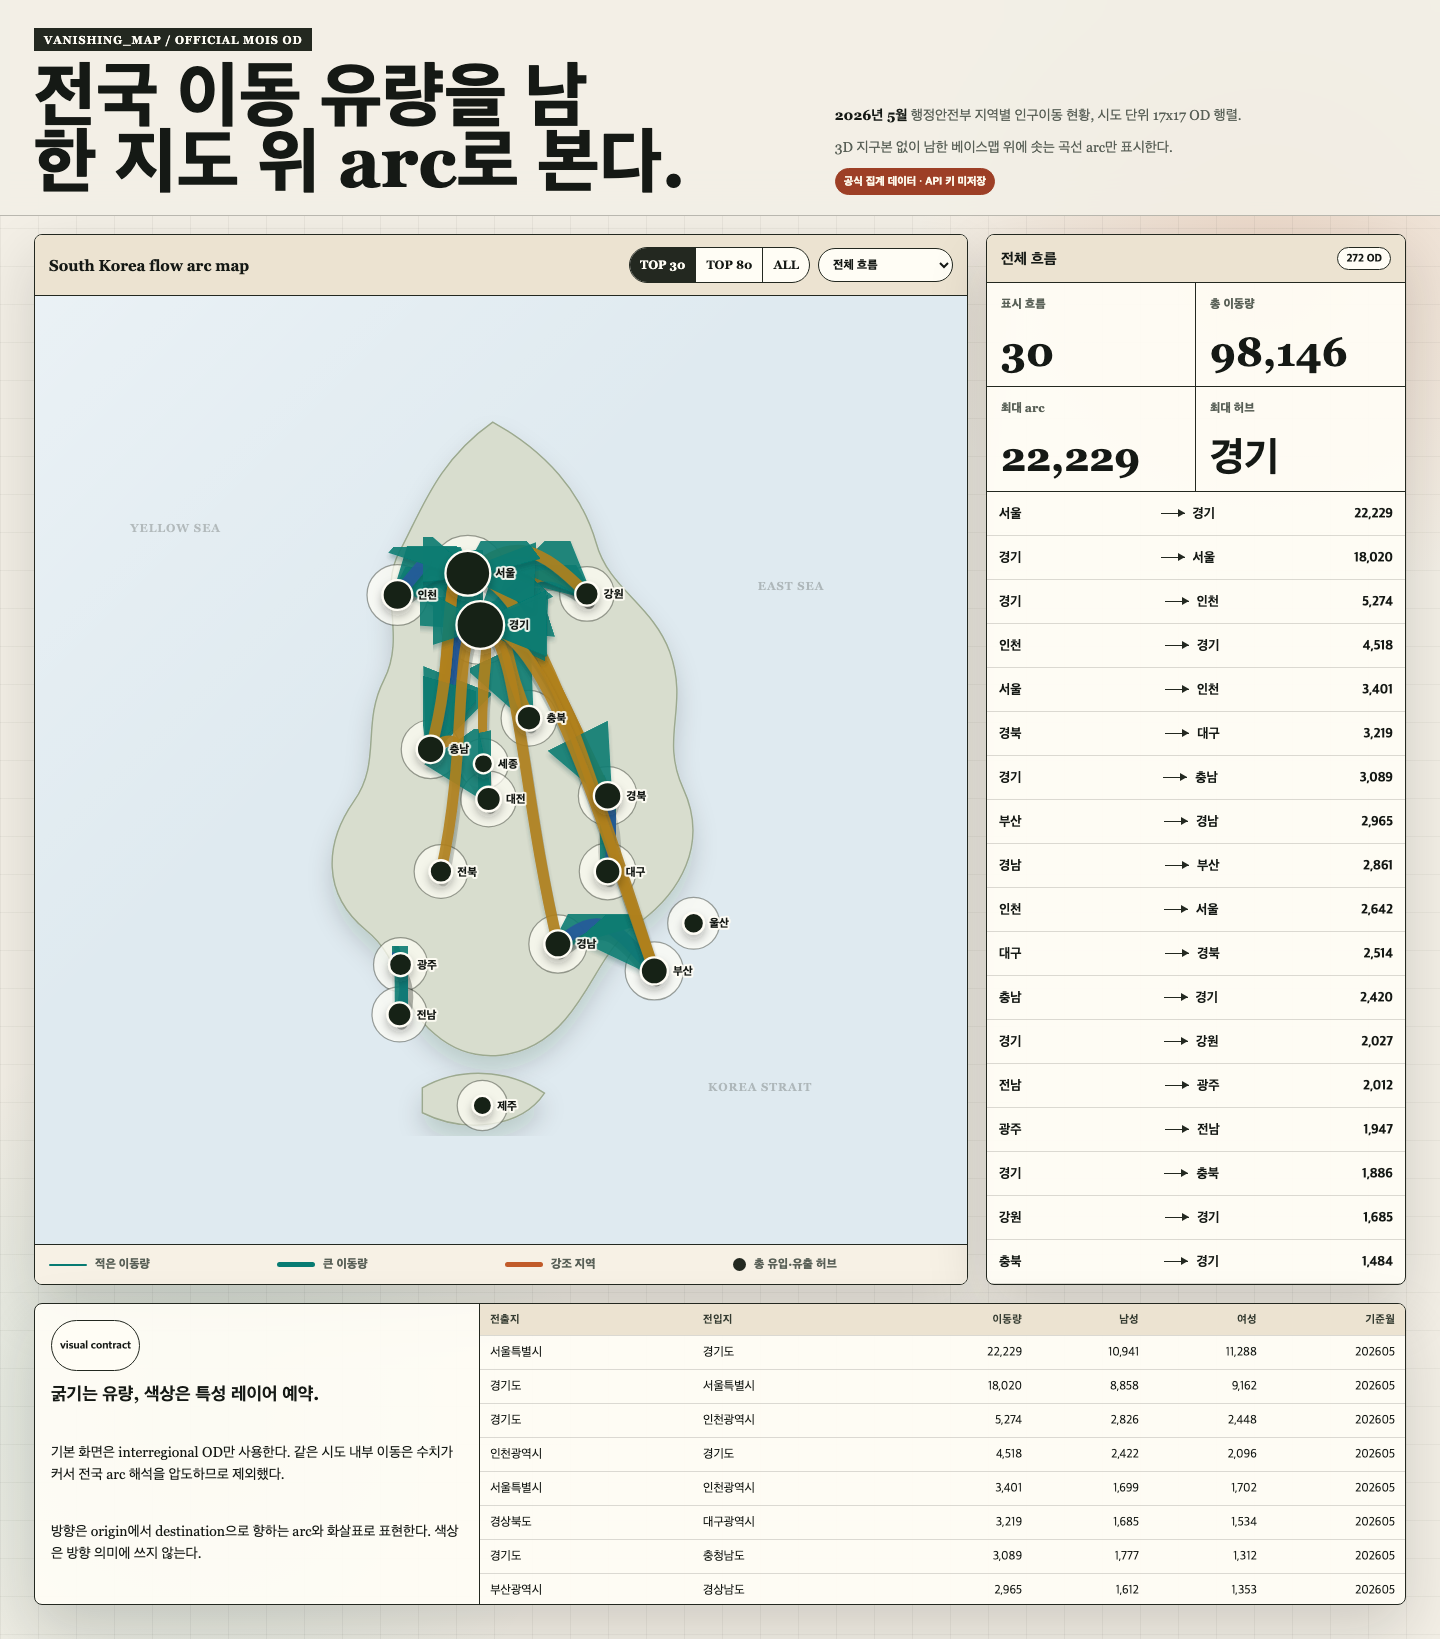
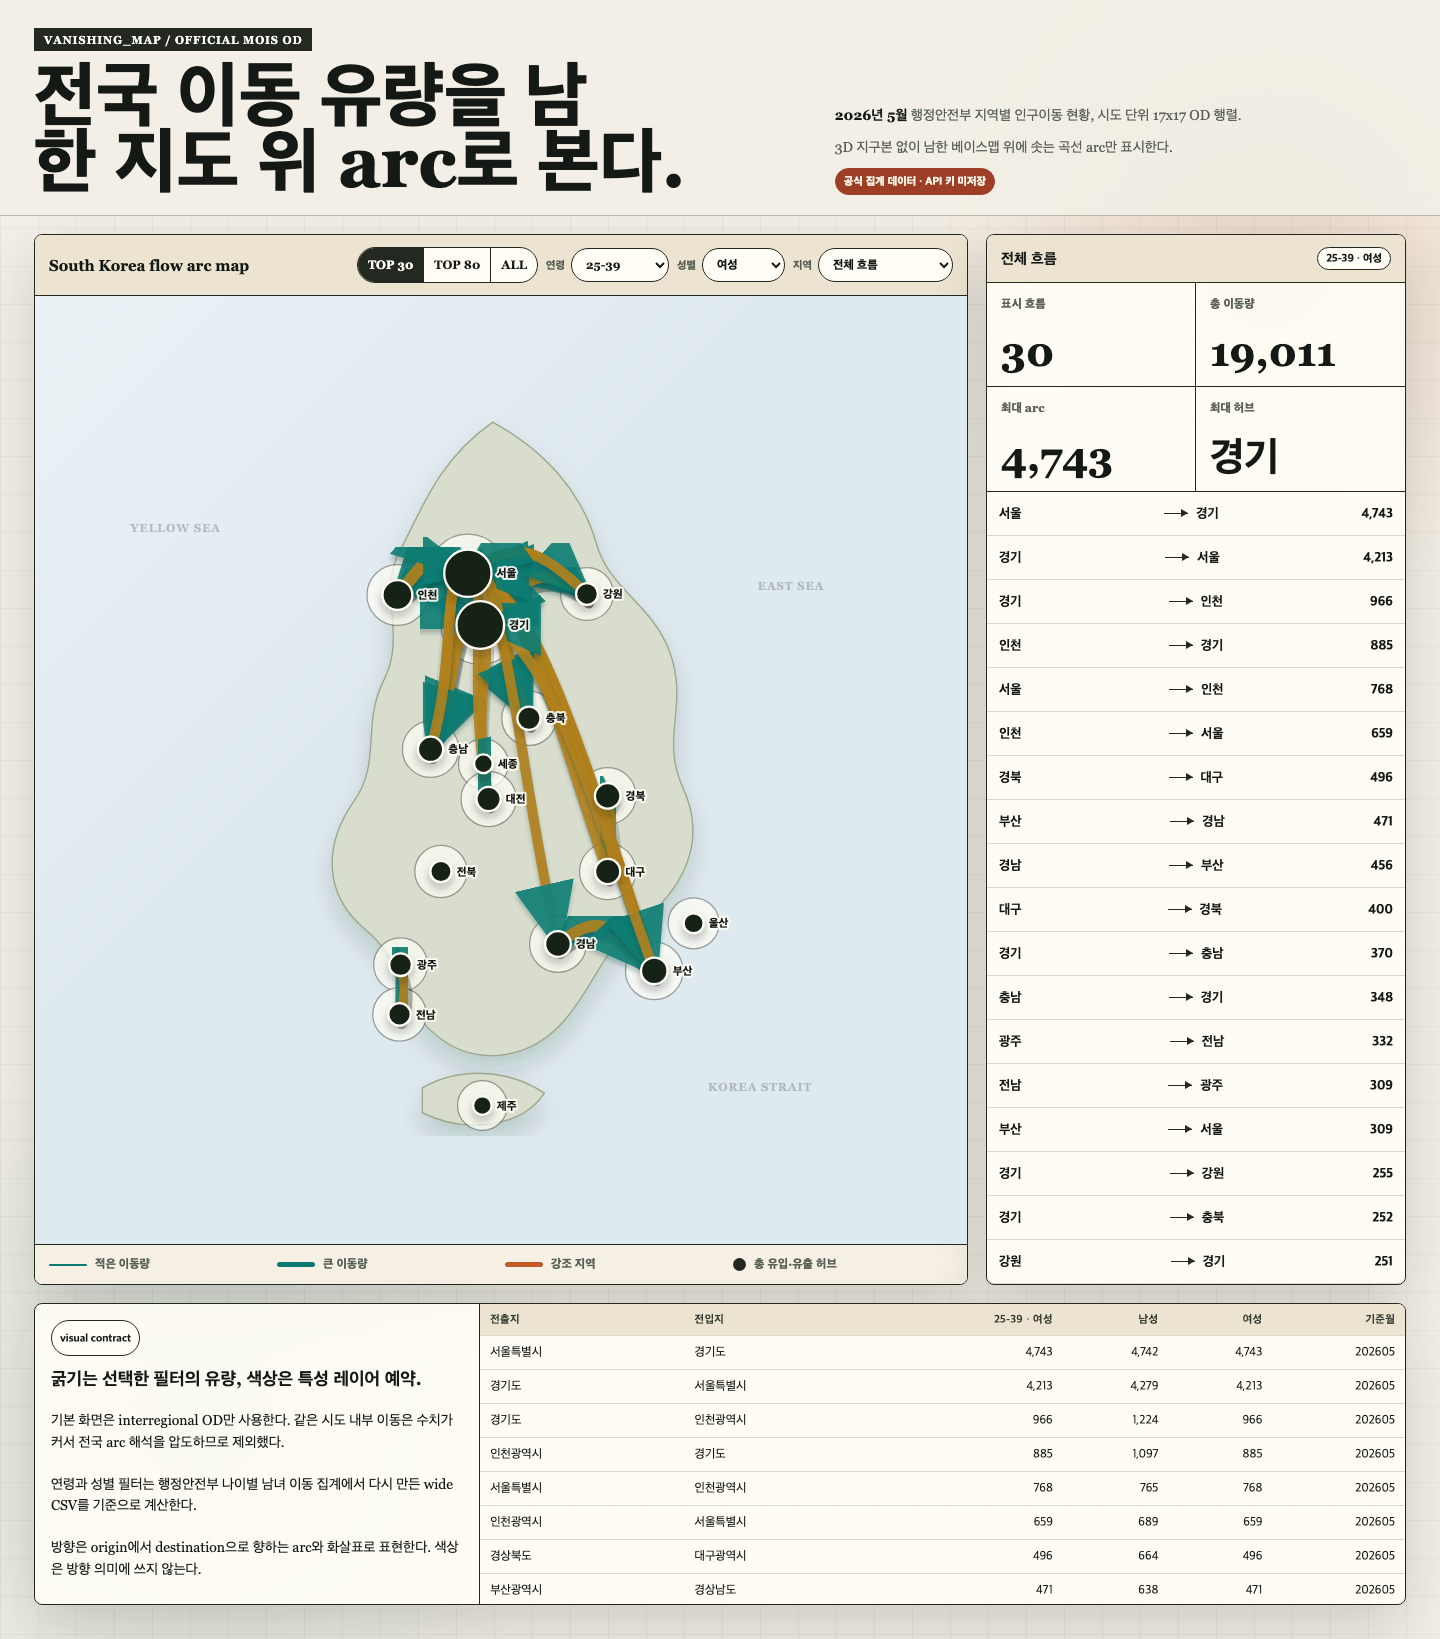
Document age and gender flow filters

diff --git a/MEMORY.md b/MEMORY.md
@@ -55,3 +55,10 @@
 - **어떻게**: 정적 HTML/CSS/JS 안에서 MOIS OD CSV를 fetch하고, 시도별 고정 좌표와 단순 남한 윤곽 베이스맵 위에 cubic bezier arc를 그렸다. 선 굵기는 이동량, 노드 크기는 총 유입·유출 허브 강도, 색상은 향후 특성 레이어 확장을 위한 슬롯으로 분리했다. README와 data/README도 현재 데이터 구조에 맞게 갱신했다.
 - **막힌 점 / 바꾼 점**: 브라우저 검증을 위해 로컬 서버가 필요했다. 샌드박스 포트 바인딩과 Playwright 브라우저 캐시 버전 문제로 권한 승인 후 Chromium을 설치해 검증했다.
 - **배운 것 / 다음**: 데스크톱과 모바일에서 콘솔 오류, 요청 실패, 가로 오버플로 없이 렌더링됐다. 발표자료용 공개 캡처는 `presentation-assets/result_screenshot.png`에 저장했다.
+
+### 2026-06-27 연령·성별 유량 필터 추가
+- **정한 것 / 한 것**: 행안부 OD API를 다시 호출해 총 이동량, 성별, 연령대, 연령대별 성별 이동량을 포함한 wide CSV를 만들고 `index.html`의 유량 계산 기준에 연결했다.
+- **왜**: 단순 화면 필터가 아니라 선택한 연령·성별 집단의 실제 이동량으로 arc 굵기, 순위, 허브 크기, 지표가 다시 계산되어야 하기 때문이다.
+- **어떻게**: `data/mois-ppltn-data-stus-sido-od-202605-age-gender.csv`와 interregional CSV를 추가했다. 화면에는 연령(`전체`, `0-14`, `15-24`, `25-39`, `40-54`, `55-64`, `65+`)과 성별(`전체`, `남성`, `여성`) 선택을 넣고, `people`, `male`, `female`, `age_*`, `age_*_male`, `age_*_female` 컬럼을 조합해 유량을 산출하도록 했다.
+- **막힌 점 / 바꾼 점**: 기존 CSV에는 `male/female`만 있고 연령 컬럼이 없어 데이터 재수집이 필요했다.
+- **배운 것 / 다음**: 이후 색상은 현재 유량 기준과 별개로 지역 특성, 정책 유형, 관계인구 특성 같은 속성 레이어에 배정할 수 있다.

diff --git a/data/README.md b/data/README.md
@@ -2,15 +2,23 @@
 
 ## Primary Web App Input
 
-`mois-ppltn-data-stus-sido-od-202605.csv`
+`mois-ppltn-data-stus-sido-od-202605-age-gender.csv`
 
 Required columns used by `index.html`:
 
 ```csv
-period,origin_code,origin,destination_code,destination,people,male,female,level,source_status,source_endpoint
+period,origin_code,origin,destination_code,destination,people,male,female,age_0_14,age_0_14_male,age_0_14_female,age_15_24,age_15_24_male,age_15_24_female,age_25_39,age_25_39_male,age_25_39_female,age_40_54,age_40_54_male,age_40_54_female,age_55_64,age_55_64_male,age_55_64_female,age_65_plus,age_65_plus_male,age_65_plus_female,level,source_status,source_endpoint
 ```
 
 `origin` is the MOIS `mvt*` departure side. `destination` is the MOIS `mvin*` arrival side.
+
+The app uses these columns to recalculate the visible flow volume when age and gender filters change.
+
+## Interregional Web App Input
+
+`mois-ppltn-data-stus-sido-od-202605-age-gender-interregional.csv`
+
+This excludes same-province self loops and keeps the same total, gender, age, and age-by-gender columns.
 
 ## Dashboard Flow Export
 
